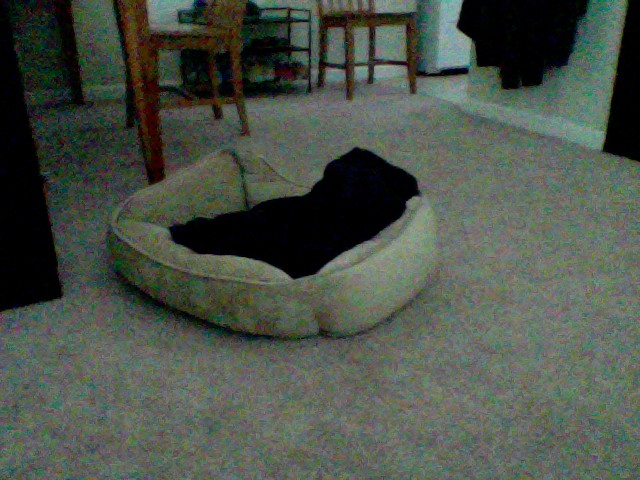
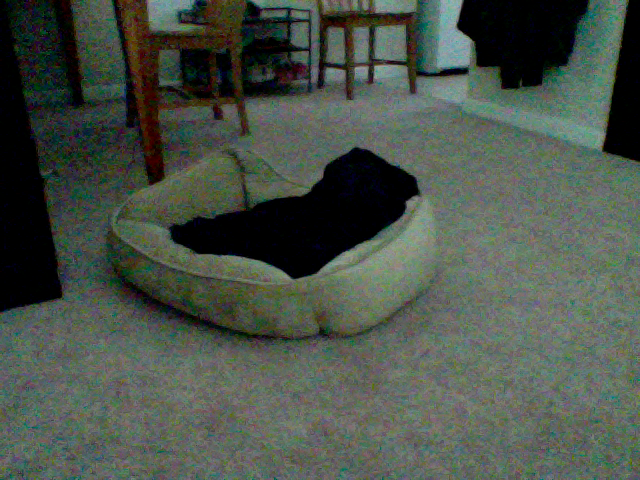
update at Month05Day09Time08:53

diff --git a/index.html b/index.html
@@ -39,7 +39,7 @@
       <!-- Example row of columns -->
       <div class="row">
         <div class="col-md-4">
-	<p>This picture was updated at Month05Day09Time08:52</p>
+	<p>This picture was updated at Month05Day09Time08:53</p>
 		<img src="3_pic.png" />
         </div>
       </div>
